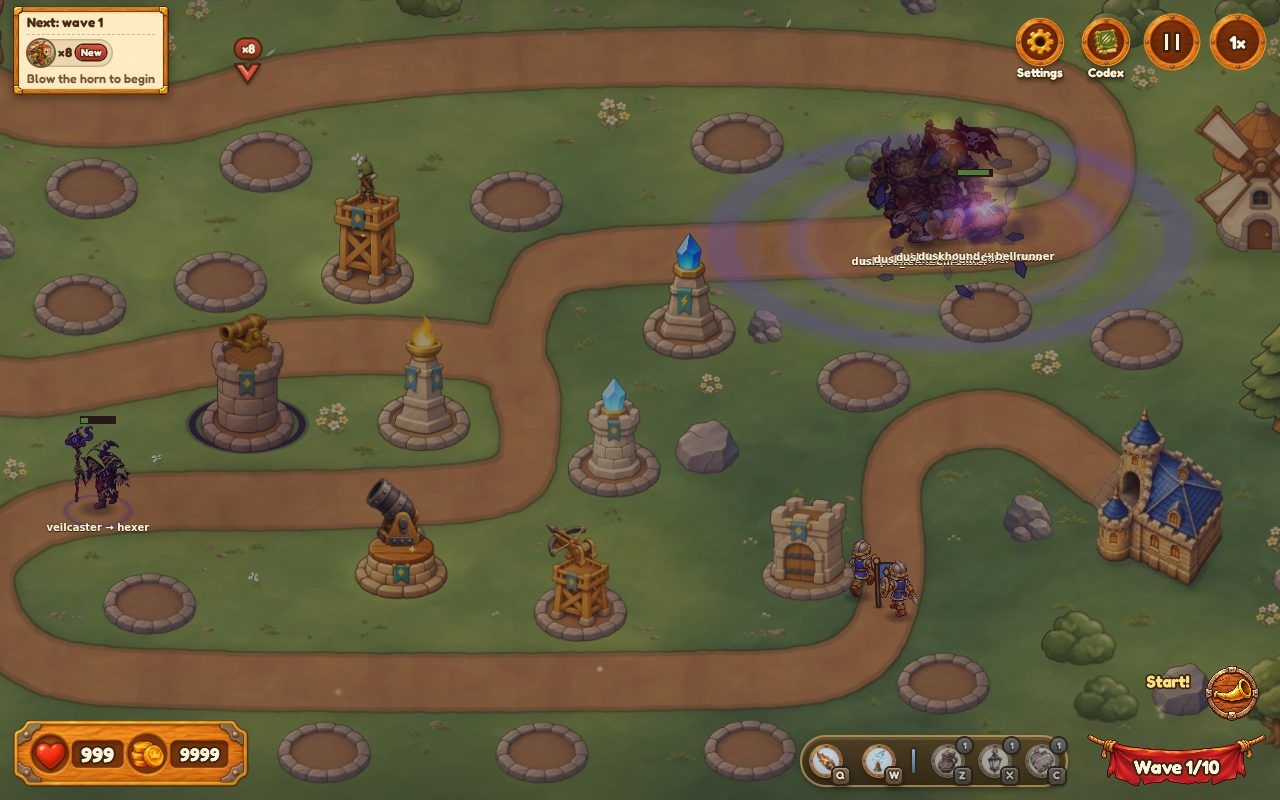
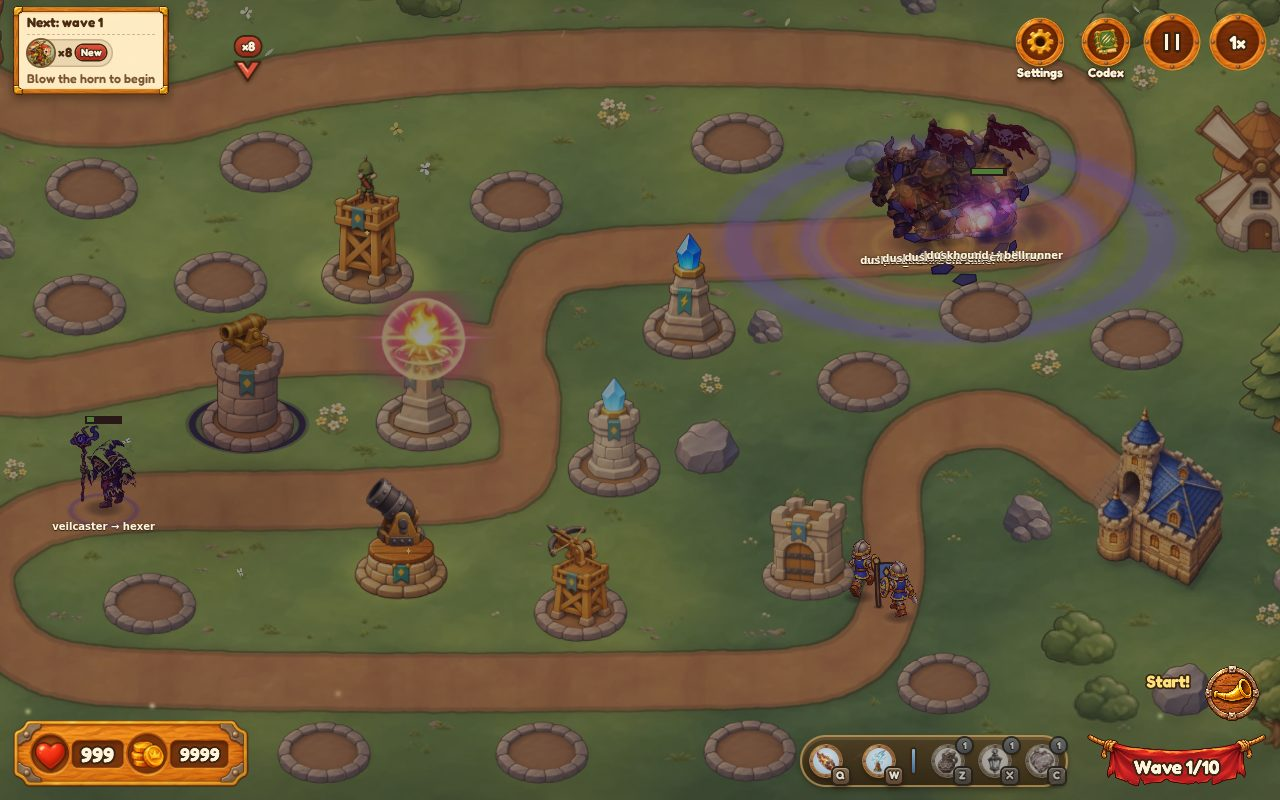
docs: handoff-ch5-foes (mechanics, numbers vs ch4, placeholder art, tests, gate); final zoo shot

diff --git a/docs/handoff-ch5-foes.md b/docs/handoff-ch5-foes.md
@@ -191,7 +191,20 @@ These are starting values. The Phase 2/3 wave/balance agents should tune them wi
   the road and a tower is veiled.
 
 ## Gate (Node 22, final tree, hermes)
-GATE_RESULTS
+- `npx tsc --noEmit` ✔ · `npm run lint` ✔
+- `npx vitest run`: **148 files passed (2 skipped), 2,008 tests passed, 15 skipped**, including
+  `tests/sim/qaBot.test.ts` (QA bot suite with the new invariants) and the new 32 chapter-five tests.
+- `npm run sim:balance`: **PASSED (53 levels)**. Stdout is 1,365 lines, SHA-256
[1 lines of base64/hex data omitted]
+  revision af731ac5** (both run on hermes, same node_modules; driver: `git archive` of the base's
+  `src`, `scripts`, `package.json`, `tsconfig.json` into /tmp, deleted afterwards).
+- `npm run sim:items -- --workers=2`: exit 0, 6 PASS / 0 FAIL in the summary block.
+- `npm run sim:difficulty`: 11 PASS / 0 FAIL.
+- `npm run build` ✔ (the usual Vite ineffective-dynamic-import and chunk-size advisories).
+- Browser QA: `qa/ch5zoo.mjs` (one Chromium, own preview port 4471, stopped afterwards) produced
+  `docs/ch5-shots/zoo-1280x800.jpg`: eclipse shade on (alpha 0.42, timer 3.8 s), both Shadow Halves
+  and 5 Dusk Hounds on the road, the Veilcaster beside a veiled tower (dark ring; 6 towers range-cut
+  by the eclipse). No page or console errors apart from the expected 404s for the pending art.
 
 ## Open / doubtful
 1. **Balance:** all numbers are first guesses against chapter four; no island uses the foes yet.
